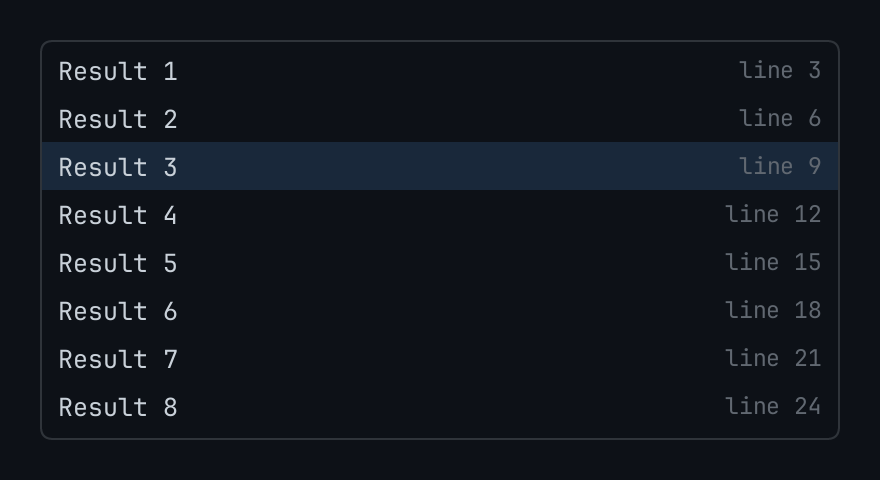
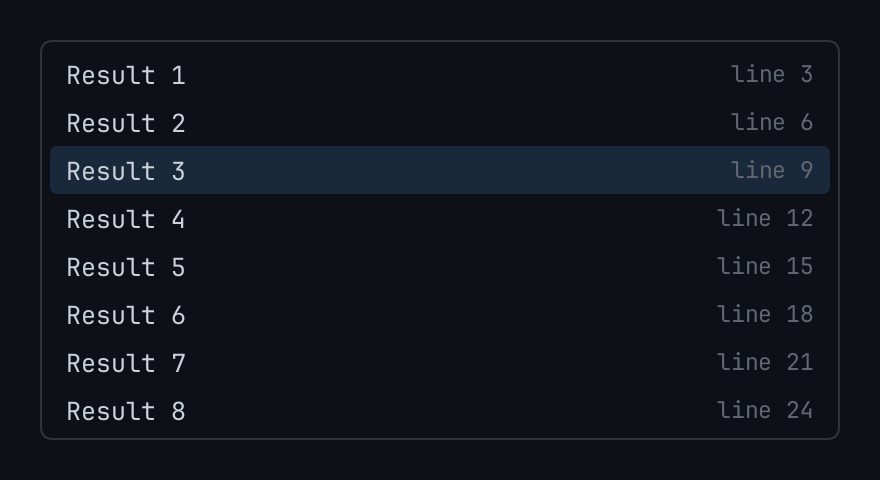
Round the chosen row of a list that has an inset and keep it inside the inset on every side, as the picker's is

diff --git a/kit/drive/src/library_ui_tests.rs b/kit/drive/src/library_ui_tests.rs
@@ -4071,30 +4071,47 @@ end
 
 #[test]
 #[ignore = "heavy: compiles the interpreter and drives a page; make check-heavy"]
-fn the_row_chosen_in_a_plain_list_is_as_wide_as_the_list_and_in_a_card_it_is_inside_its_inset()
+fn the_row_chosen_in_a_list_is_inside_its_inset_with_round_corners_and_with_no_inset_it_is_as_wide_as_the_list()
 -> Result<(), Error> {
     let page = open(
         r#"
 S.items = { { key = "a", title = "alpha" }, { key = "b", title = "beta" } }
 view = function(u)
     return pencere.div():row():gap(8):size_full()
-        :child(pencere.div():w(200):h(120):child(u:list("plain", { items = S.items, state = { cursor = "a" }, inset = 4 })))
-        :child(pencere.div():w(200):h(120):child(u:list("round", { items = S.items, state = { cursor = "a" }, inset = 4, radius = 3 })))
+        :child(pencere.div():w(160):h(120):child(u:list("plain", { items = S.items, state = { cursor = "a" }, inset = 4 })))
+        :child(pencere.div():w(160):h(120):child(u:list("round", { items = S.items, state = { cursor = "a" }, inset = 4, radius = 3 })))
+        :child(pencere.div():w(160):h(120):child(u:list("flat", { items = S.items, state = { cursor = "a" } })))
 end
 "#,
     )?;
-    let (plain, round) = (bounds_of(&page, "plain"), bounds_of(&page, "round"));
-    let (plain_row, round_row) = (
-        bounds_of(&page, "plain/row/a"),
-        bounds_of(&page, "round/row/a"),
-    );
-    assert_eq!((plain_row.x, plain_row.w), (plain.x, plain.w));
-    // A list of rows with rounded corners keeps the ground of its rows inside the inset on every side.
-    assert_eq!(round_row.x, round.x + 4.0);
-    assert_eq!(round_row.right(), round.right() - 4.0);
-    // Above the first row there is the inset in both.
-    assert_eq!(plain_row.y, plain.y + 4.0);
-    assert_eq!(round_row.y, round.y + 4.0);
+    let ground = |name: &str| {
+        let row = bounds_of(&page, name);
+        let quad = page.list().items.iter().find_map(|item| match item {
+            pencere_view::Paint::Quad(quad) if quad.rect == row && quad.fill.is_some() => {
+                Some(quad)
+            }
+            _ => None,
+        });
+        (
+            row,
+            quad.unwrap_or_else(|| panic!("no ground of {name}")).radii,
+        )
+    };
+    // A list with an inset keeps the ground of its rows inside it on every side, with the corners of the
+    // theme's chip (4) unless the page says another.
+    for (name, radius) in [("plain", 4.0), ("round", 3.0)] {
+        let list = bounds_of(&page, name);
+        let (row, radii) = ground(&format!("{name}/row/a"));
+        assert_eq!(row.x, list.x + 4.0, "{name}");
+        assert_eq!(row.right(), list.right() - 4.0, "{name}");
+        assert_eq!(row.y, list.y + 4.0, "{name}");
+        assert_eq!(radii, [radius; 4], "{name}");
+    }
+    // A list with none is as wide as it is and its rows are square.
+    let list = bounds_of(&page, "flat");
+    let (row, radii) = ground("flat/row/a");
+    assert_eq!((row.x, row.w, row.y), (list.x, list.w, list.y));
+    assert_eq!(radii, [0.0; 4]);
     Ok(())
 }
 

diff --git a/kit/sandbox/CHANGELOG.md b/kit/sandbox/CHANGELOG.md
@@ -8,7 +8,7 @@ All notable changes to the `pencere-sandbox` crate are recorded here. The format
 
 ### Changed
 
-- **The library's parts stand where a style sheet would put them**: the replace row of a `find_bar` is under the find row at both edges (the two rows are one grid); the number of a row of a `grid` is in the middle of the row and at the right of its column, and a column that is `align = "end"` ends its words, head and type at its end; the row chosen of a plain `list` is as wide as the list (the `inset` is at its sides only where its rows are rounded: in the `palette`, the `picker` and the `completions`); the edge of a `split` is a line of a point that the panes touch, with its grip laid over it and in front of both panes; a `rule("y")` in a row is as tall as the row; the middle group of a `status` is in the middle of the bar; the words of a row of a `palette` or a `picker` start where those of its field do; the guides of a `tree` go through the middle of the arrow of the node above; and a `button` with an icon has as much of its padding seen on the left as on the right (it is narrower by what the glyph does not draw, `look.bearing`). A `list` row that a page does not make says its `icon` and `detail` too, which the `completions` had in their items and did not show. A `split`'s grip is seven points across as before, but only a point of it is in the row: the other pane has six points more room.
+- **The library's parts stand where a style sheet would put them**: the replace row of a `find_bar` is under the find row at both edges (the two rows are one grid); the number of a row of a `grid` is in the middle of the row and at the right of its column, and a column that is `align = "end"` ends its words, head and type at its end; the row chosen of a `list` with an `inset` stands inside it on every side with round corners (the theme's `chip`, as the `picker`'s and the `palette`'s do in their cards), and a list with none is as wide as it is, its rows square; the edge of a `split` is a line of a point that the panes touch, with its grip laid over it and in front of both panes; a `rule("y")` in a row is as tall as the row; the middle group of a `status` is in the middle of the bar; the words of a row of a `palette` or a `picker` start where those of its field do; the guides of a `tree` go through the middle of the arrow of the node above; and a `button` with an icon has as much of its padding seen on the left as on the right (it is narrower by what the glyph does not draw, `look.bearing`). A `list` row that a page does not make says its `icon` and `detail` too, which the `completions` had in their items and did not show. A `split`'s grip is seven points across as before, but only a point of it is in the row: the other pane has six points more room.
 - **An input of lines is the field itself in a box of the theme**: its ground, border and padding are the field element's own, so that the host scrolls the text in the padding and the first line stands a padding from the edge (it stood 2 points from it); an element around it, as large as it is, carries the input's name. An input with a `lead` or a `trail`, and the inputs of one line, are made as they were.
 - **The library's components are as large as they were under a border that takes room**: a button, a toggle, a segment, a tab, an input, a toast and a chosen cell of a grid have a point less of padding for their ring or border, so that they are the size the theme says; a card (a modal, a dialog, a picker, a palette, a popover, the completions) is two points taller for its border and what is in it two points narrower, and the row chosen in it stands inside the border, its corners the card's less the border and the inset.
 

diff --git a/kit/spec/library.md b/kit/spec/library.md
@@ -590,7 +590,7 @@ A press of the right button on a tab, a row, a cell or a line of a tree is the a
 
 `list` and `tree` take `key_map = { j = "down" }` for keys of their own. A list with `multi` says `mark { marked }`.
 
-A `list`'s `inset` is the room around its rows: above the first and below the last, and, where its `radius` rounds the corners of the ground of its rows (none by default), on each side of that ground too: a plain list's row chosen is as wide as the list. The `picker`, the `palette` and the `completions` keep the ground of the row chosen inside their card: their rows are inset on every side, and the corners of the ground are the card's less the inset. The words of a row of a `picker` or a `palette` start where the words of its field do. A row that a list draws on its own says its `icon` (a glyph's name), `title`, `detail` and `hint`.
+A `list`'s `inset` is the room around its rows: above the first, below the last and on each side of the ground of every row. Its `radius` rounds the corners of that ground (the theme's `chip` by default where there is an inset). A list with no inset is as wide as it is and its rows are square, as those of a `tree` are. The `picker`, the `palette` and the `completions` keep the ground of the row chosen inside their card: their rows are inset on every side, and the corners of the ground are the card's less the inset. The words of a row of a `picker` or a `palette` start where the words of its field do. A row that a list draws on its own says its `icon` (a glyph's name), `title`, `detail` and `hint`.
 
 Between the panes of a `split` there is a line of one point, which both panes touch; the edge that is dragged is a box seven points across laid over it. A `grid`'s column has its edge as a box laid over the cell's right edge. A `split`'s edge and a `grid`'s column say `resize { size, final }` (`{ column, width, final }`):
 
